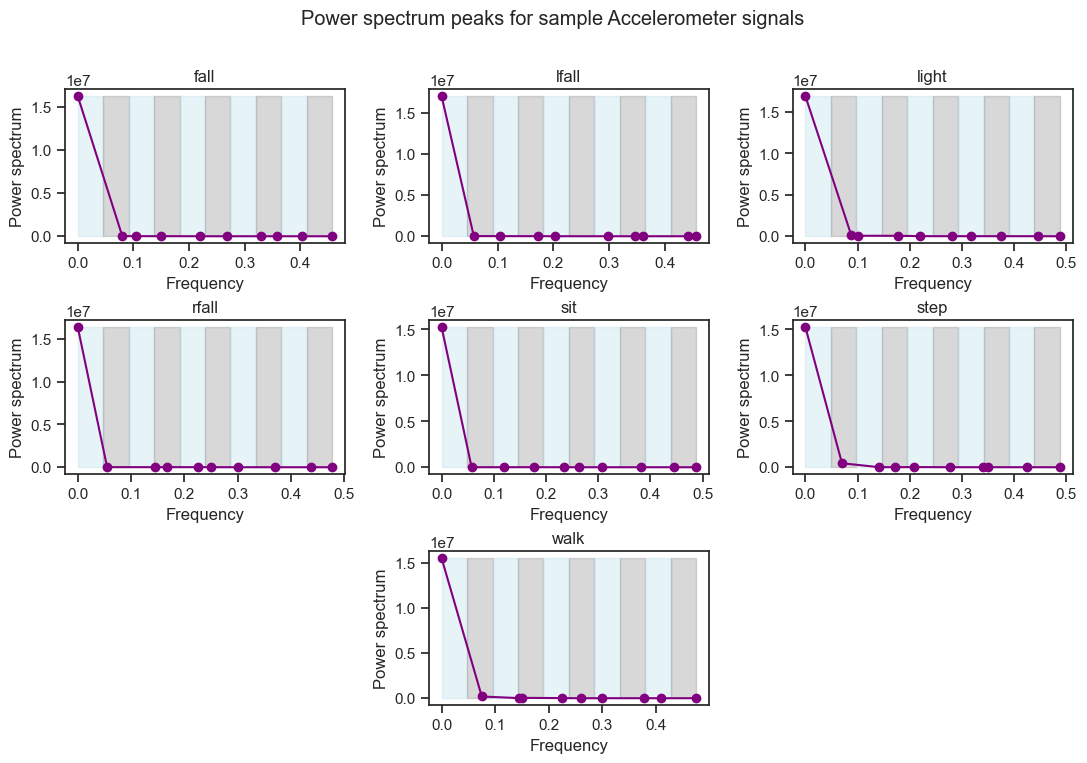
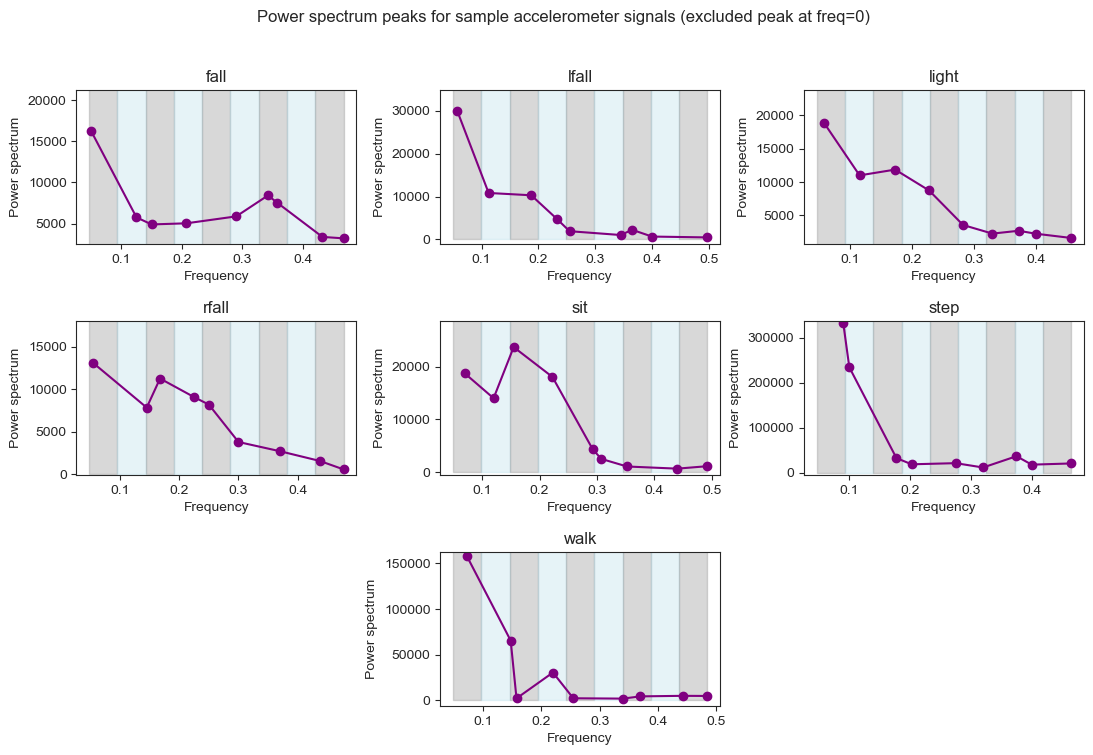
adjust max_bin plots

Changed region(s): [[0.0, 0.0914, 1.0, 1.0], [0.2429, 0.0, 0.7893, 0.0305]]

diff --git a/nice_plots.py b/nice_plots.py
@@ -100,12 +100,17 @@ def maxbin_plot(sampled_rows, device: str):
         num_bins = 10
         hist_counts, bin_edges = np.histogram(max_ps[0], bins=num_bins)
 
-        ax[pos[i]].plot(max_ps[0], max_ps[1], marker="o", color=color)
+        ax[pos[i]].plot(max_ps[0][1:], max_ps[1][1:], marker="o", color=color)
         ax[pos[i]].set_xlabel('Frequency')
         ax[pos[i]].set_ylabel('Power spectrum')
+        if device=="accelerometer":
+            top = max(max_ps[1][1:])+5e3
+        else:
+            top = max(max_ps[1][1:])+5e5
+        ax[pos[i]].set_ylim(top=top)
         ax[pos[i]].set_title(label[0])
         # Add transparent bands using fill_between for each bin
-        for k in range(num_bins):
+        for k in range(1, num_bins):
             lower_band = bin_edges[k]
             upper_band = bin_edges[k + 1]
             if k%2==0:
@@ -114,7 +119,7 @@ def maxbin_plot(sampled_rows, device: str):
                 ax[pos[i]].fill_betweenx([0, max(max_ps[1])], lower_band, upper_band, alpha=0.3, color='gray')
         i+=1
 
-    plt.suptitle(f'Power spectrum peaks for sample {device} signals')
+    plt.suptitle(f'Power spectrum peaks for sample {device} signals (excluded peak at freq=0)')
     plt.subplots_adjust(hspace=0.5, wspace=0.3)
     plt.delaxes(ax[pos[6]])
     plt.delaxes(ax[pos[8]])
